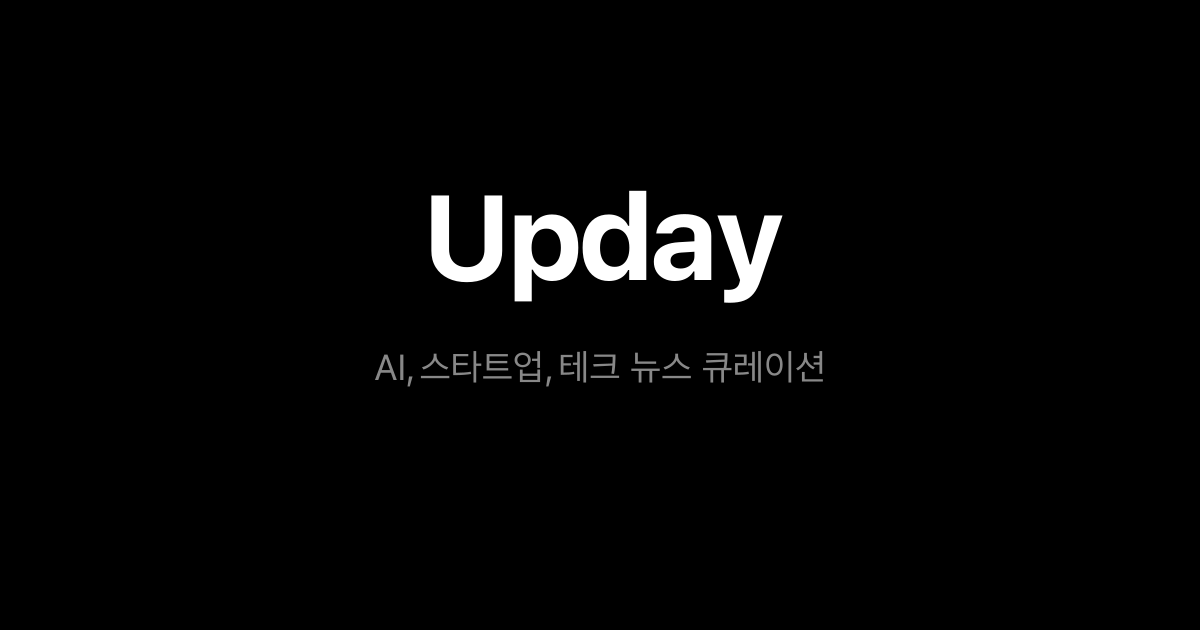
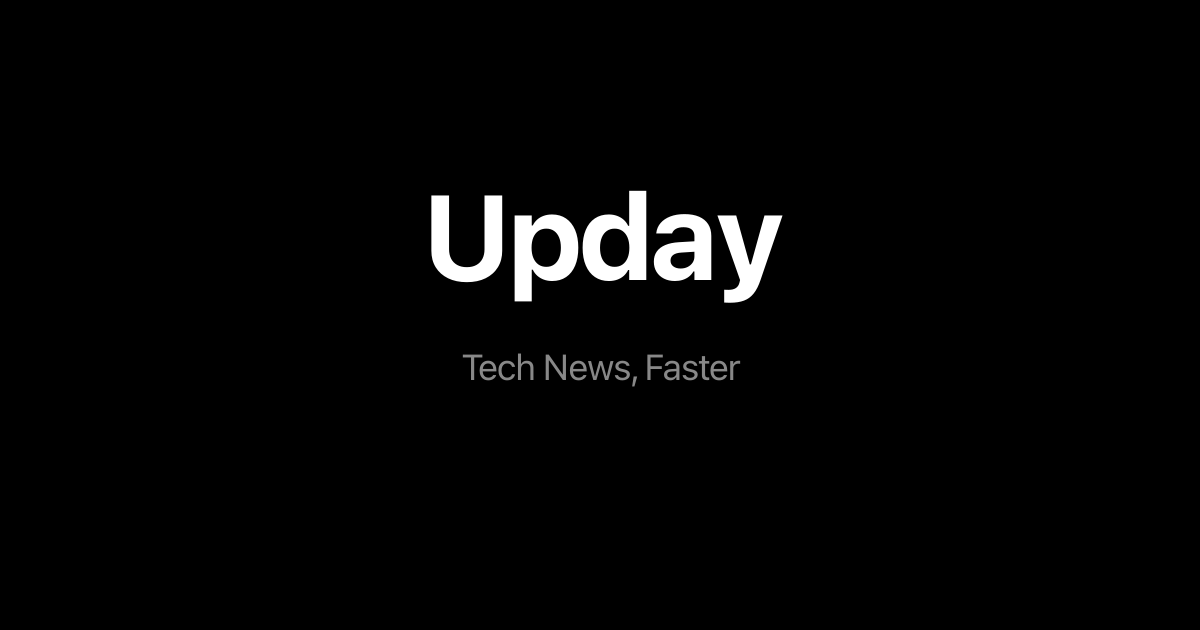
fix: update site copy to English for global audience
- Title: "Upday - Tech News, Faster"
- Tagline emphasizes speed and real-time updates
- All meta tags, OG tags, Twitter cards updated
- Category SEO presets in English
- Regenerated OG image with English text

Changed region(s): [[0.3083, 0.5429, 0.7092, 0.6032]]

diff --git a/index.html b/index.html
@@ -19,10 +19,10 @@
     </script>
 
     <!-- Primary Meta Tags -->
-    <title>Upday - AI, 스타트업, 테크 뉴스 큐레이션</title>
-    <meta name="title" content="Upday - AI, 스타트업, 테크 뉴스 큐레이션" />
-    <meta name="description" content="AI, 스타트업, 우주, 과학, 개발 분야의 최신 테크 뉴스를 한눈에. 매일 업데이트되는 큐레이션 뉴스 플랫폼." />
-    <meta name="keywords" content="AI뉴스, 스타트업, 테크뉴스, 인공지능, 우주, 과학, 개발자뉴스, IT뉴스" />
+    <title>Upday - Tech News, Faster</title>
+    <meta name="title" content="Upday - Tech News, Faster" />
+    <meta name="description" content="AI-summarized tech news in real-time. Stay ahead with the latest in AI, startups, science, and dev. No noise, just what matters." />
+    <meta name="keywords" content="tech news, AI news, startup news, breaking tech, developer news, science news, real-time updates" />
     <meta name="author" content="Upday" />
     <meta name="robots" content="index, follow" />
     <link rel="canonical" href="https://updayapp.com" />
@@ -38,8 +38,8 @@
     <!-- Open Graph / Facebook -->
     <meta property="og:type" content="website" />
     <meta property="og:url" content="https://updayapp.com" />
-    <meta property="og:title" content="Upday - AI, 스타트업, 테크 뉴스 큐레이션" />
-    <meta property="og:description" content="AI, 스타트업, 우주, 과학, 개발 분야의 최신 테크 뉴스를 한눈에. 매일 업데이트되는 큐레이션 뉴스 플랫폼." />
+    <meta property="og:title" content="Upday - Tech News, Faster" />
+    <meta property="og:description" content="AI-summarized tech news in real-time. Stay ahead with the latest in AI, startups, science, and dev." />
     <meta property="og:image" content="https://updayapp.com/og-image.png" />
     <meta property="og:locale" content="ko_KR" />
     <meta property="og:site_name" content="Upday" />
@@ -47,8 +47,8 @@
     <!-- Twitter -->
     <meta name="twitter:card" content="summary_large_image" />
     <meta name="twitter:url" content="https://updayapp.com" />
-    <meta name="twitter:title" content="Upday - AI, 스타트업, 테크 뉴스 큐레이션" />
-    <meta name="twitter:description" content="AI, 스타트업, 우주, 과학, 개발 분야의 최신 테크 뉴스를 한눈에. 매일 업데이트되는 큐레이션 뉴스 플랫폼." />
+    <meta name="twitter:title" content="Upday - Tech News, Faster" />
+    <meta name="twitter:description" content="AI-summarized tech news in real-time. Stay ahead with the latest in AI, startups, science, and dev." />
     <meta name="twitter:image" content="https://updayapp.com/og-image.png" />
 
     <!-- Naver Verification (네이버 서치어드바이저) -->
@@ -64,7 +64,7 @@
       "@type": "WebSite",
       "name": "Upday",
       "url": "https://updayapp.com",
-      "description": "AI, 스타트업, 우주, 과학, 개발 분야의 최신 테크 뉴스를 한눈에",
+      "description": "AI-summarized tech news in real-time. Stay ahead with the latest in AI, startups, science, and dev.",
       "potentialAction": {
         "@type": "SearchAction",
         "target": "https://updayapp.com/search?q={search_term_string}",

diff --git a/src/components/SEO.tsx b/src/components/SEO.tsx
@@ -11,8 +11,8 @@ interface SEOProps {
 }
 
 const BASE_URL = 'https://updayapp.com'
-const DEFAULT_TITLE = 'Upday - AI, 스타트업, 테크 뉴스 큐레이션'
-const DEFAULT_DESCRIPTION = 'AI, 스타트업, 우주, 과학, 개발 분야의 최신 테크 뉴스를 한눈에. 매일 업데이트되는 큐레이션 뉴스 플랫폼.'
+const DEFAULT_TITLE = 'Upday - Tech News, Faster'
+const DEFAULT_DESCRIPTION = 'AI-summarized tech news in real-time. Stay ahead with the latest in AI, startups, science, and dev. No noise, just what matters.'
 const DEFAULT_IMAGE = `${BASE_URL}/og-image.png`
 
 export function SEO({
@@ -87,27 +87,27 @@ export function SEO({
 // Category SEO presets
 export const CATEGORY_SEO: Record<string, { title: string; description: string }> = {
   ai: {
-    title: 'AI 뉴스',
-    description: '인공지능, 머신러닝, LLM, ChatGPT 등 최신 AI 기술 뉴스와 트렌드',
+    title: 'AI News',
+    description: 'Breaking AI news: LLMs, machine learning, ChatGPT, and emerging AI trends updated in real-time.',
   },
   startup: {
-    title: '스타트업 뉴스',
-    description: '스타트업 펀딩, 인수합병, IPO 등 창업 생태계 최신 소식',
+    title: 'Startup News',
+    description: 'Latest startup funding, acquisitions, IPOs, and founder stories as they happen.',
   },
   science: {
-    title: '과학 뉴스',
-    description: '과학 연구, 의학 발견, 물리학, 생물학 등 과학계 최신 뉴스',
+    title: 'Science News',
+    description: 'Breaking scientific discoveries, research breakthroughs, and tech innovations.',
   },
   space: {
-    title: '우주 뉴스',
-    description: 'NASA, SpaceX, 로켓, 위성, 우주 탐사 등 항공우주 분야 뉴스',
+    title: 'Space News',
+    description: 'Real-time updates on SpaceX, NASA, rocket launches, and space exploration.',
   },
   dev: {
-    title: '개발자 뉴스',
-    description: '프로그래밍, 오픈소스, GitHub, 개발 도구 등 개발자 커뮤니티 소식',
+    title: 'Developer News',
+    description: 'Latest in programming, open source, GitHub updates, and developer tools.',
   },
   design: {
-    title: '디자인 뉴스',
-    description: 'UI/UX, 프로덕트 디자인, 디자인 툴 등 디자인 분야 최신 트렌드',
+    title: 'Design News',
+    description: 'Breaking product design, UI/UX trends, and creative tool updates.',
   },
 }

diff --git a/src/pages/TimelinePage.tsx b/src/pages/TimelinePage.tsx
@@ -40,8 +40,8 @@ export function TimelinePage() {
   return (
     <div className="min-h-screen bg-background">
       <SEO
-        title={seo?.title || '타임라인'}
-        description={seo?.description || '최신 테크 뉴스를 시간순으로 확인하세요'}
+        title={seo?.title || 'Timeline'}
+        description={seo?.description || 'Real-time tech news feed. AI-summarized, no noise.'}
         url={category ? `/${category}` : '/timeline'}
       />
       <Header query={query} onQueryChange={handleQueryChange} />
